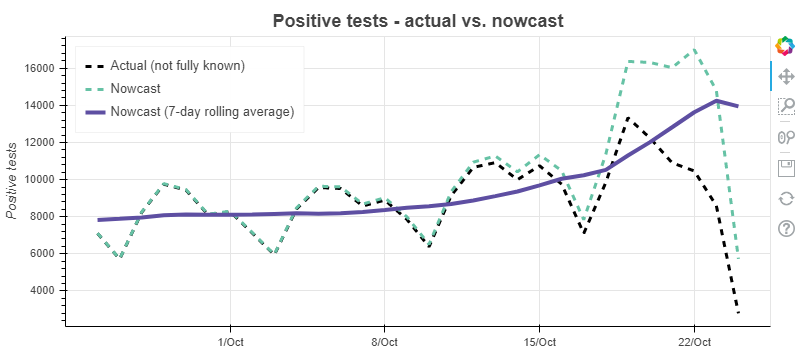
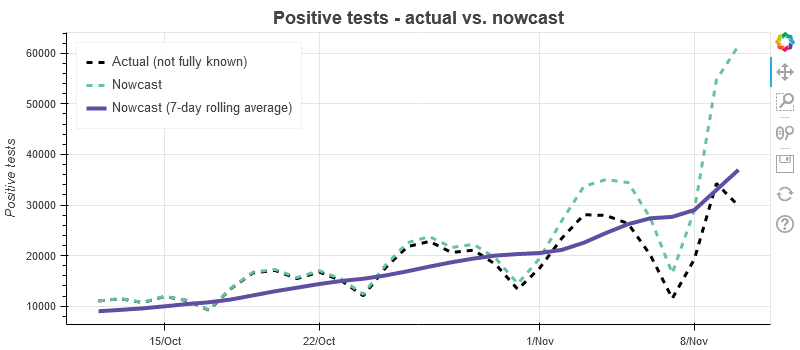
Fix DE data

diff --git a/covid_19/de/dataretrieval.py b/covid_19/de/dataretrieval.py
@@ -105,7 +105,17 @@ def get_rki_file_historical_from_github(dt: datetime.date):
     df_rki = get_rki_file_historical_from_ihucos(dt)
     if df_rki is not None:
         return df_rki
+    df_rki = get_rki_file_historical_from_rki_github(dt)
+    if df_rki is not None:
+        return df_rki
     raise Exception("Could not find historical RKI file for date: {date_str}".format(date_str=dt.strftime("%Y-%m-%d")))
+
+
+def get_rki_file_historical_from_rki_github(dt: datetime.date):
+    url = "https://media.githubusercontent.com/media/robert-koch-institut/SARS-CoV-2_Infektionen_in_Deutschland/master/Archiv/"
+    url += dt.strftime("%Y-%m-%d") + "_Deutschland_SarsCov2_Infektionen.csv"
+
+    return get_rki_data_frame_supplement_datenstand(url, dt)
 
 
 def get_rki_file_historical_from_micb25(dt: datetime.date):
@@ -211,6 +221,16 @@ def __convert_date_column(ds):
     return pd.to_datetime(ds, format="%Y/%m/%d", utc=True)
 
 
+def get_rki_data_frame_supplement_datenstand(url, dt):
+    try:
+        df_rki = pd.read_csv(url, sep=",", usecols=USED_COLS.remove('Datenstand'))
+    except (HTTPError, FileNotFoundError):
+        return None
+
+    df_rki['Datenstand'] = dt.strftime("%Y/%m/%d")
+    return process_df_rki(df_rki)
+
+
 def get_rki_data_frame(url):
     # An explanation of variables available in this dataset can be found at:
     # https://npgeo-corona-npgeo-de.hub.arcgis.com/datasets/dd4580c810204019a7b8eb3e0b329dd6_0
@@ -220,6 +240,10 @@ def get_rki_data_frame(url):
     except (HTTPError, FileNotFoundError):
         return None
 
+    return process_df_rki(df_rki)
+
+
+def process_df_rki(df_rki):
     df_rki["Meldedatum"] = __convert_date_column(df_rki["Meldedatum"])
     df_rki["Refdatum"] = __convert_date_column(df_rki["Refdatum"])
     df_rki["Datenstand"] = __convert_date_column(df_rki["Datenstand"])
